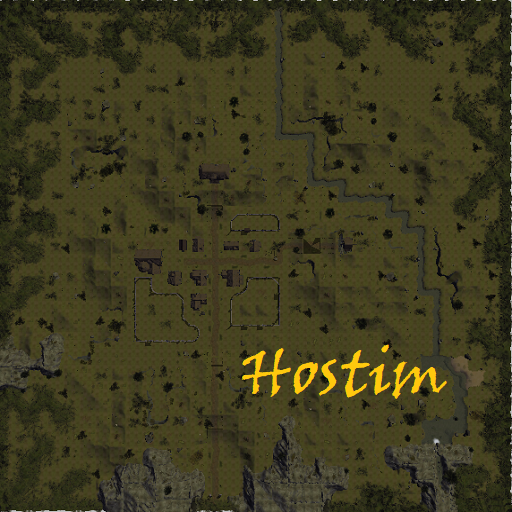
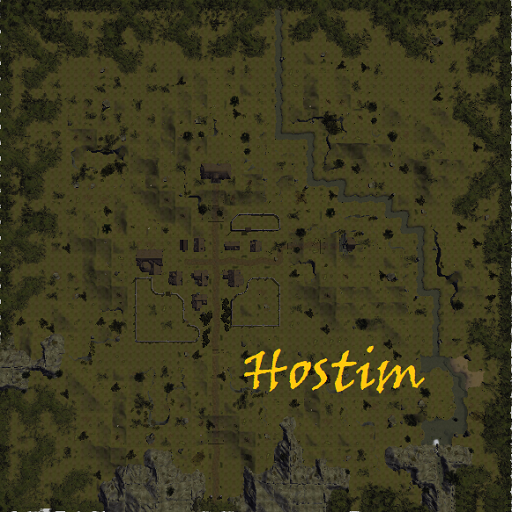
ver210212

diff --git a/square/scroll.js b/square/scroll.js
@@ -10,7 +10,7 @@ var map = {
         '0map',        '0map',     '0map',            '0map',            '0map',            '0map',            '0map',           '0map',            '0map',           '0map',            '0map',         '0map',          '0map',          '0map',      '0map',        '0map',        '0map',        'TorArcanaFsw','TorArcanaFs', 'TorArcanaFse','0map',   
         '0map',        '0map',     '0map',            '0map',            '0map',            '0map',            '0map',           '0map',            '0map',           '0map',            '0map',         'GrannoxFw',     'GrannoxFe',     'Lhestyn',   'FreelmanseFw','FreelmanseFe','0map',        'VarythPlainW','VarythPlainC','0map',        '0map',
         '0map',        '0map',     'CastleTethyr',    '0map',            '0map',            '0map',            '0map',           'Hostim',          '0map',           '0map',            '0map',         '0map',          'LhestynFsw',    'LhestynFs', 'LhestynFse',  'RvrShrHillN', 'RvrShrHillNE','VarythHillNW','0map',        '0map',        '0map', 
-        '0map',        '0map',     'CastleTethyrS',   '0map',            '0map',            '0map',            '0map',           '0map',            '0map',           '0map',            '0map',         'QonsirFw',      'QonsirFe',      'LhestynRd', 'RvrShrHillW', 'RvrShrHill',  'StOstus',     'VarythHillSW','0map',        '0map',        '0map', 
+        '0map',        '0map',     'CastleTethyrS',   '0map',            '0map',            '0map',            '0map',           'HostimRD',            '0map',           '0map',            '0map',         'QonsirFw',      'QonsirFe',      'LhestynRd', 'RvrShrHillW', 'RvrShrHill',  'StOstus',     'VarythHillSW','0map',        '0map',        '0map', 
         'SaharkhanCRS','Saharkhan','Barshyr_IthalRd1','Barshyr_IthalRd2','Barshyr_IthalRd3','Barshyr_IthalRd4','Ithmon_WCatFrm1','Ithmon_WCatFrm2', 'Ithmon_LorCrsRd','Ithmon_IthRd1',   'Ithmon_IthRd2','RvrShr_IthalRd','DarroFarmNW',   'DarroFarmN','DarroFarmNE', 'RvrShrHillS', 'RvrShrHillSE','0map',        '0map',        '0map',        '0map', 
         '0map',        '0map',     '0map',            '0map',            '0map',            '0map',            '0map',           'Ithmon_LorFarmNW','Ithmon_LorFarmN','Ithmon_LorFarmNE','0map',         'RvrShr_IthFrmW','RvrShr_IthFrmE','Darromar',  '0map',        '0map',        '0map',        '0map',        '0map',        '0map',        '0map', 
         '0map',        '0map',     '0map',            '0map',            '0map',            '0map',            '0map',           'Ithmon_LorFarmW', 'Loranse',        'Ithmon_LorFarmE', '0map',         '0map',          '0map',          'ClovisFn',  '0map',        '0map',        '0map',        '0map',        '0map',        '0map',        '0map', 

diff --git a/square/no-scroll.js b/square/no-scroll.js
@@ -10,7 +10,7 @@ var map = {
         '0map',        '0map',     '0map',            '0map',            '0map',            '0map',            '0map',           '0map',            '0map',           '0map',            '0map',         '0map',          '0map',          '0map',      '0map',        '0map',        '0map',        'TorArcanaFsw','TorArcanaFs', 'TorArcanaFse','0map',   
         '0map',        '0map',     '0map',            '0map',            '0map',            '0map',            '0map',           '0map',            '0map',           '0map',            '0map',         'GrannoxFw',     'GrannoxFe',     'Lhestyn',   'FreelmanseFw','FreelmanseFe','0map',        'VarythPlainW','VarythPlainC','0map',        '0map',
         '0map',        '0map',     'CastleTethyr',    '0map',            '0map',            '0map',            '0map',           'Hostim',          '0map',           '0map',            '0map',         '0map',          'LhestynFsw',    'LhestynFs', 'LhestynFse',  'RvrShrHillN', 'RvrShrHillNE','VarythHillNW','0map',        '0map',        '0map', 
-        '0map',        '0map',     'CastleTethyrS',   '0map',            '0map',            '0map',            '0map',           '0map',            '0map',           '0map',            '0map',         'QonsirFw',      'QonsirFe',      'LhestynRd', 'RvrShrHillW', 'RvrShrHill',  'StOstus',     'VarythHillSW','0map',        '0map',        '0map', 
+        '0map',        '0map',     'CastleTethyrS',   '0map',            '0map',            '0map',            '0map',           'HostimRD',        '0map',           '0map',            '0map',         'QonsirFw',      'QonsirFe',      'LhestynRd', 'RvrShrHillW', 'RvrShrHill',  'StOstus',     'VarythHillSW','0map',        '0map',        '0map', 
         'SaharkhanCRS','Saharkhan','Barshyr_IthalRd1','Barshyr_IthalRd2','Barshyr_IthalRd3','Barshyr_IthalRd4','Ithmon_WCatFrm1','Ithmon_WCatFrm2', 'Ithmon_LorCrsRd','Ithmon_IthRd1',   'Ithmon_IthRd2','RvrShr_IthalRd','DarroFarmNW',   'DarroFarmN','DarroFarmNE', 'RvrShrHillS', 'RvrShrHillSE','0map',        '0map',        '0map',        '0map', 
         '0map',        '0map',     '0map',            '0map',            '0map',            '0map',            '0map',           'Ithmon_LorFarmNW','Ithmon_LorFarmN','Ithmon_LorFarmNE','0map',         'RvrShr_IthFrmW','RvrShr_IthFrmE','Darromar',  '0map',        '0map',        '0map',        '0map',        '0map',        '0map',        '0map', 
         '0map',        '0map',     '0map',            '0map',            '0map',            '0map',            '0map',           'Ithmon_LorFarmW', 'Loranse',        'Ithmon_LorFarmE', '0map',         '0map',          '0map',          'ClovisFn',  '0map',        '0map',        '0map',        '0map',        '0map',        '0map',        '0map', 
